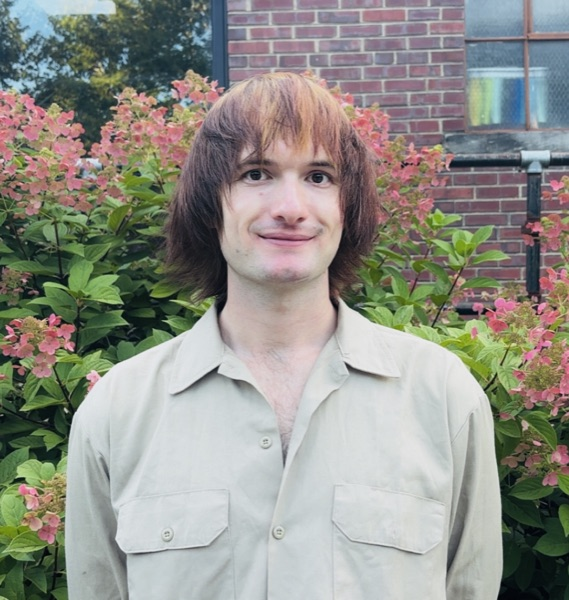
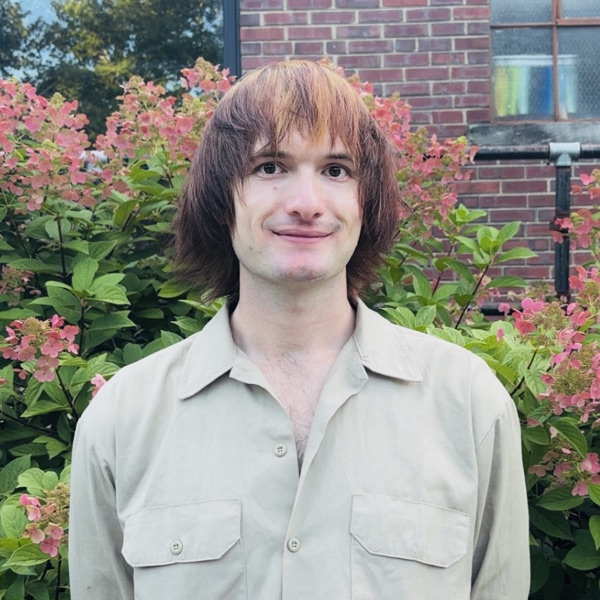
Move portrait to identity header; square crop, accent frame
Support a `portrait:` frontmatter field (build.py) rendered beside the
name in a flex identity header (text left, photo right, vertically
centred; stacks on narrow screens). Recrop the asset to a true 600x600
square and thicken the .portrait border to 3px in the accent colour so
it reads as a frame distinct from the page background.

diff --git a/base.css b/base.css
@@ -136,7 +136,21 @@ a:focus-visible {
 .theme-toggle[hidden] { display: none; }
 
 /* ---------- Identity header ----------------------------------- */
-.identity { margin-block: var(--s4) var(--s6); }
+/* name/subtitle/contact on the left, an optional portrait on the right,
+   vertically centred; stacks (photo on top) on narrow screens. */
+.identity {
+  margin-block: var(--s4) var(--s6);
+  display: flex;
+  align-items: center;
+  gap: var(--s5);
+  flex-wrap: wrap;
+}
+.identity-text { flex: 1 1 16rem; min-width: 0; }
+.identity .portrait { float: none; margin: 0; flex: 0 0 auto; }
+@media (max-width: 34rem) {
+  .identity { justify-content: center; }
+  .identity .portrait { order: -1; }   /* photo above the name when stacked */
+}
 .identity h1 {
   margin: 0;
   font-size: clamp(2rem, 1.6rem + 1.6vw, 3rem);
@@ -268,7 +282,7 @@ figcaption {
   object-position: center;
   margin: 0 0 var(--s4) var(--s5);
   border-radius: 8px;
-  border: 1px solid var(--rule);
+  border: 3px solid var(--accent);   /* thicker, accent-coloured frame */
   shape-outside: inset(0 round 8px);
 }
 @media (max-width: 34rem) { .portrait { float: none; width: 60%; margin-inline: 0; } }

diff --git a/styles.css b/styles.css
@@ -184,7 +184,21 @@ a:focus-visible {
 .theme-toggle[hidden] { display: none; }
 
 /* ---------- Identity header ----------------------------------- */
-.identity { margin-block: var(--s4) var(--s6); }
+/* name/subtitle/contact on the left, an optional portrait on the right,
+   vertically centred; stacks (photo on top) on narrow screens. */
+.identity {
+  margin-block: var(--s4) var(--s6);
+  display: flex;
+  align-items: center;
+  gap: var(--s5);
+  flex-wrap: wrap;
+}
+.identity-text { flex: 1 1 16rem; min-width: 0; }
+.identity .portrait { float: none; margin: 0; flex: 0 0 auto; }
+@media (max-width: 34rem) {
+  .identity { justify-content: center; }
+  .identity .portrait { order: -1; }   /* photo above the name when stacked */
+}
 .identity h1 {
   margin: 0;
   font-size: clamp(2rem, 1.6rem + 1.6vw, 3rem);
@@ -316,7 +330,7 @@ figcaption {
   object-position: center;
   margin: 0 0 var(--s4) var(--s5);
   border-radius: 8px;
-  border: 1px solid var(--rule);
+  border: 3px solid var(--accent);   /* thicker, accent-coloured frame */
   shape-outside: inset(0 round 8px);
 }
 @media (max-width: 34rem) { .portrait { float: none; width: 60%; margin-inline: 0; } }

diff --git a/index.html b/index.html
@@ -55,11 +55,14 @@
     <!-- GENERATED FILE — do not edit. Edit content.md and run `python3 build.py`. -->
 
     <header class="identity">
+      <div class="identity-text">
         <h1>Jake Francis Baer</h1>
         <p class="subtitle">Ph.D. Candidate in Mathematics, Wayne State University</p>
         <p class="contact label">
         francis [at] wayne [dot] edu
       </p>
+      </div>
+      <img class="portrait" src="media/baer-profile.jpg" alt="Jake Francis Baer">
       </header>
 
     <style>
@@ -188,7 +191,6 @@
 
     <section id="about-me">
       <h2 class="rule-label"><span class="label">About me</span></h2>
-      <img class="portrait" src="media/baer-profile.jpg" alt="Jake Francis Baer">
       <p>
         I am a fifth year Ph.D. student in the Department of Mathematics at Wayne State
       University, advised by Dan Isaksen and William Balderrama.

diff --git a/build.py b/build.py
@@ -198,11 +198,18 @@ def render_identity(meta):
         md_inline(part.strip()) for part in meta.get("contact", "").split("|") if part.strip()
     )
     subtitle = meta.get("subtitle", "")
-    parts = ['<header class="identity">', f'  <h1>{md_inline(meta["name"])}</h1>']
+    text = ['<div class="identity-text">', f'  <h1>{md_inline(meta["name"])}</h1>']
     if subtitle:
-        parts.append(f'  <p class="subtitle">{md_inline(subtitle)}</p>')
+        text.append(f'  <p class="subtitle">{md_inline(subtitle)}</p>')
     if contact:
-        parts.append(f'  <p class="contact label">\n        {contact}\n      </p>')
+        text.append(f'  <p class="contact label">\n        {contact}\n      </p>')
+    text.append("</div>")
+    parts = ['<header class="identity">']
+    parts.extend(text)
+    portrait = meta.get("portrait", "")
+    if portrait:
+        alt = html.escape(meta.get("name", ""), quote=True)
+        parts.append(f'<img class="portrait" src="{portrait}" alt="{alt}">')
     parts.append("</header>")
     return "\n      ".join(parts)
 

diff --git a/content.md b/content.md
@@ -2,6 +2,7 @@
 name: Jake Francis Baer
 subtitle: Ph.D. Candidate in Mathematics, Wayne State University
 contact: francis [at] wayne [dot] edu 
+portrait: media/baer-profile.jpg
 description: Academic homepage of Jake Francis Baer, Ph.D. Candidate in Mathematics at Wayne State University.
 
 # Top navigation: pipe-separated `Label target`. Targets are #anchors
@@ -22,8 +23,6 @@ footer: © 2026 Jake Francis Baer | built with python + katex | [source](https:/
      adding an include of viz/spectral/embed.partial.html here. -->
 
 ## About me
-
-<img class="portrait" src="media/baer-profile.jpg" alt="Jake Francis Baer">
 
 I am a fifth year Ph.D. student in the Department of Mathematics at Wayne State
 University, advised by Dan Isaksen and William Balderrama. 
